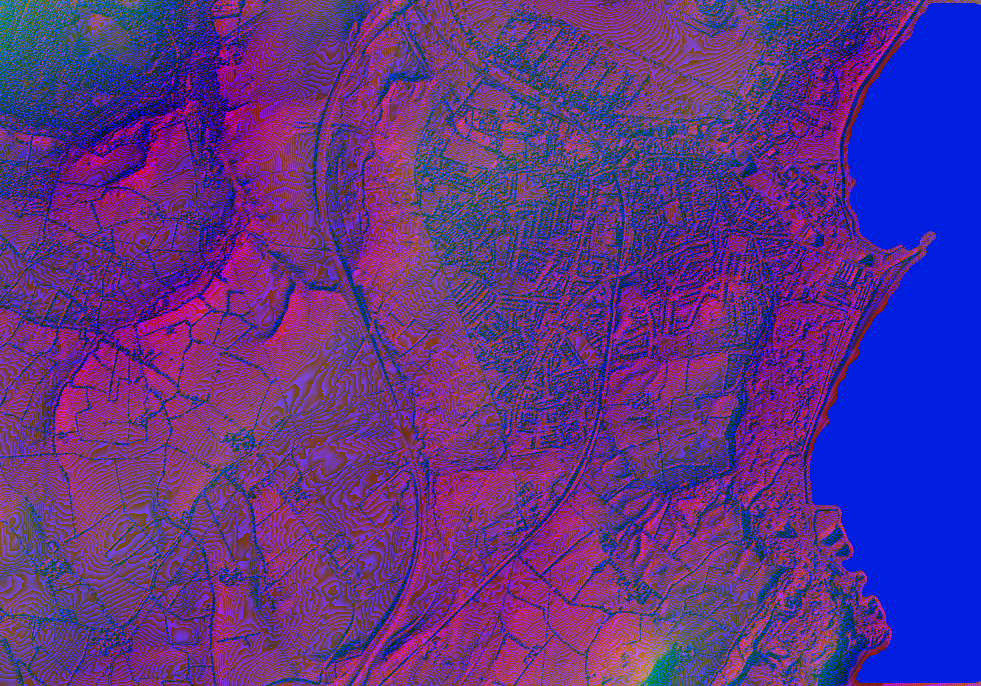
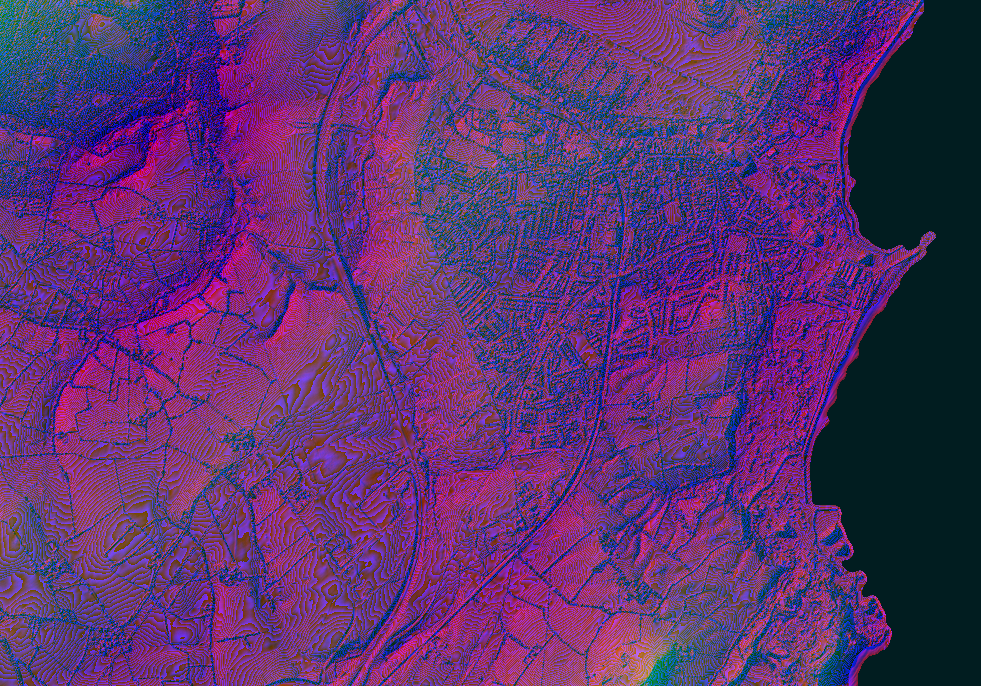
Detail maps as a block of earth; Arklow border strips removed
Detail terrains get four cut faces below the surface with faint strata,
so they read as a block lifted out of the ground. Fixes thin strips of
false land along the top and bottom border of the Arklow sea.

Claude-Session: https://claude.ai/code/session_01AUtrK7ZNP4Cu7jf2w99u8u

Changed region(s): [[0.6728, 0.0, 1.0, 1.0]]

diff --git a/assets/shrines.js b/assets/shrines.js
@@ -126,7 +126,7 @@ const pointMat = new THREE.ShaderMaterial({
     }`,
 });
 
-/* Builds a point cloud from a terrain PNG. opt: { world, relief, keepLand, hard } */
+/* Builds a point cloud from a terrain PNG. opt: { world, relief, keepLand, hard, depth } */
 function makeCloud(img, opt) {
   const NX = img.width, NZ = img.height;
   const W_ = opt.world, D_ = opt.world * NZ / NX;
@@ -177,6 +177,25 @@ function makeCloud(img, opt) {
       shade.push(isW ? rand() : px[k * 4] / 255);
       rnd.push(rand()); wat.push(WAT[isW]);
     }
+  }
+  // a block cut out of the earth: the four cut faces below the surface, with faint strata
+  if (opt.depth) {
+    const dy = cell * stride * 1.15;
+    const face = (i, j, nx, nz) => {
+      const k = j * NX + i, top = H[k] * opt.relief;
+      const x = (i / (NX - 1) - 0.5) * W_, z = (j / (NZ - 1) - 0.5) * D_;
+      for (let y = top - dy * rand(); y > -opt.depth; y -= dy) {
+        const d = (top - y) / (top + opt.depth);                       // 0 at the surface, 1 at the base
+        if (rand() > 0.78 - 0.3 * d) continue;
+        const along = (rand() - 0.5) * cell * stride;
+        pos.push(x + (nx ? 0 : along), y, z + (nz ? 0 : along));
+        const strata = 0.5 + 0.5 * Math.sin((y + 1.6 * Math.sin((x + z) * 0.045)) * 1.25) * Math.sin(y * 0.37 + 2.0);
+        shade.push(Math.max(0.05, (0.34 + 0.2 * strata) * (1 - 0.55 * d) + (rand() - 0.5) * 0.08));
+        rnd.push(rand()); wat.push(0);
+      }
+    };
+    for (let i = 0; i < NX; i += stride) { face(i, 0, 0, 1); face(i, NZ - 1, 0, 1); }
+    for (let j = 0; j < NZ; j += stride) { face(0, j, 1, 0); face(NX - 1, j, 1, 0); }
   }
   const geo = new THREE.BufferGeometry();
   geo.setAttribute("position", new THREE.Float32BufferAttribute(pos, 3));
@@ -348,7 +367,7 @@ function showDetail(idx, img) {
   const s = SHRINES[idx];
   flight = null;
   clearDetail();
-  det = makeCloud(img, { world: DETAIL.world, relief: DETAIL.relief * (s.relief ?? 1), keepLand: 0.92, hard: true });
+  det = makeCloud(img, { world: DETAIL.world, relief: DETAIL.relief * (s.relief ?? 1), keepLand: 0.92, hard: true, depth: 26 });
   // the recording spot inside the scan (spot: [u, v] from the north-west corner; centre by default)
   const [su, sv] = s.spot || [0.5, 0.5];
   const sx = (su - 0.5) * det.W, sz = (sv - 0.5) * det.D;
